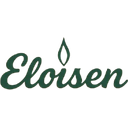
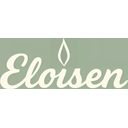
update hero section

diff --git a/src/components/Navbar.tsx b/src/components/Navbar.tsx
@@ -42,7 +42,7 @@ export default function Navbar() {
         {/* Logo */}
         <a href="#" className="absolute left-1/2 transform -translate-x-1/2 flex items-center justify-center pt-2">
           <Image
-            src="/logo.png"
+            src="/logo1_nav.png"
             alt="Eloisen Brand Logo"
             width={300}
             height={100}
